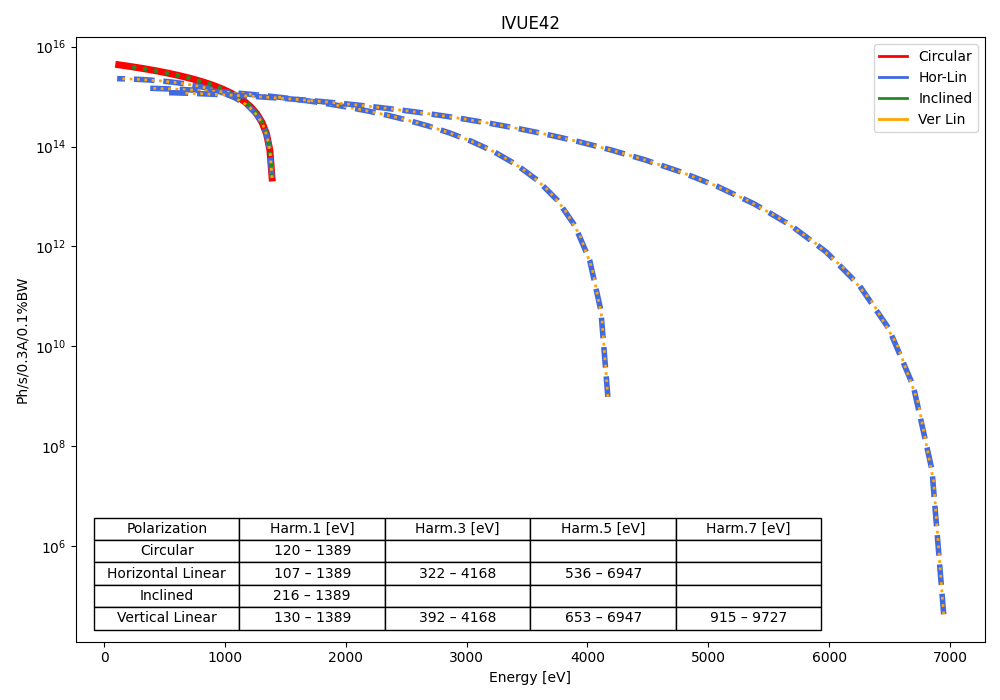
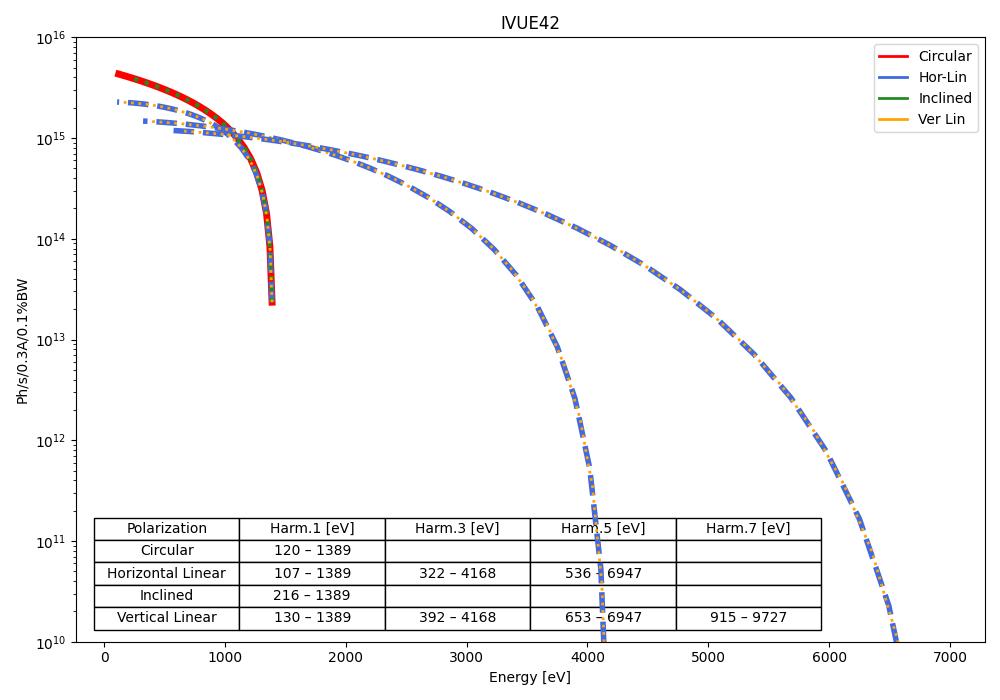
eval

diff --git a/beamlines/Signature2-Liquid_Interface/simulations/comparison_with_sotexs_BII/eval_2400_talk.py b/beamlines/Signature2-Liquid_Interface/simulations/comparison_with_sotexs_BII/eval_2400_talk.py
@@ -489,7 +489,7 @@ ax.set_yscale('log')
 ax.set_xlabel('Energy [eV]')
 ax.set_ylabel('Ph/s/0.3A/0.1%BW')
 # ax.set_xlim(x_range)
-# ax.set_ylim(9e7, 5e15)
+ax.set_ylim(1e10, 1e16)
 ax.set_title('IVUE42')
 # Save the the figure
 plt.tight_layout()
